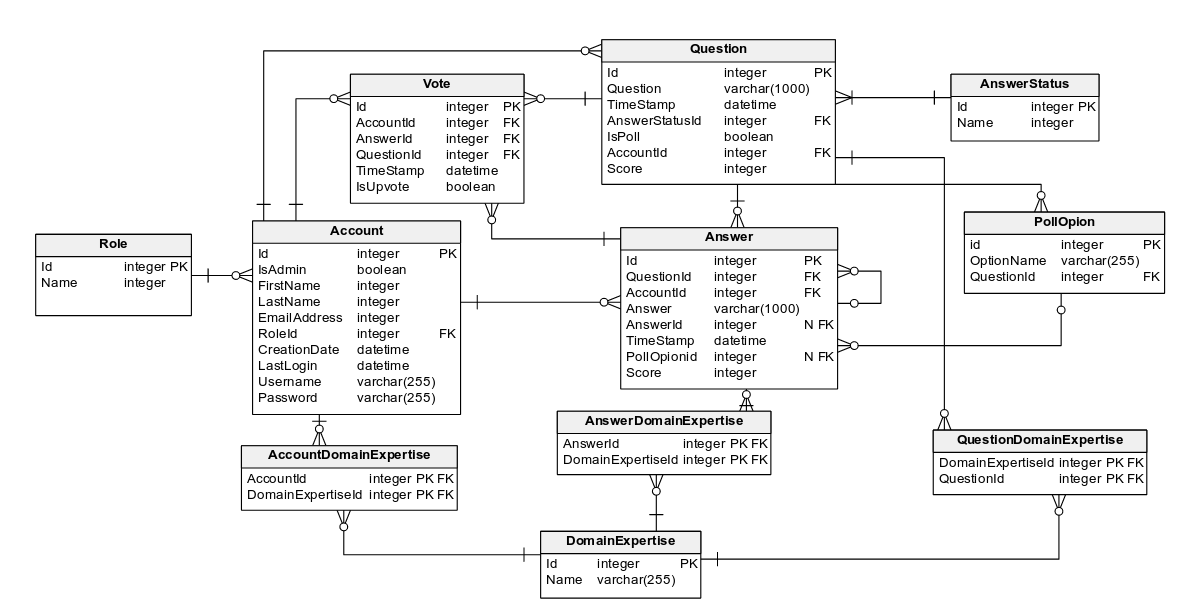
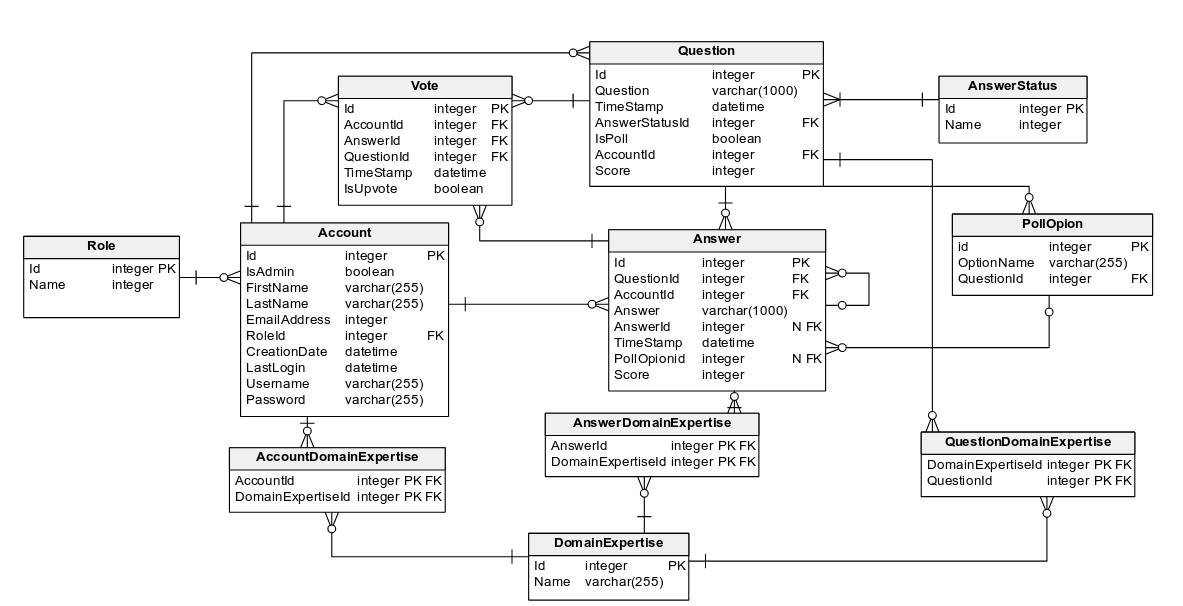
Fix first/last name account and fix database

Changed region(s): [[0.0, 0.0594, 1.0, 1.0], [0.6695, 0.2376, 0.7912, 0.2673], [0.0304, 0.505, 0.1522, 0.5347]]

diff --git a/models/account.py b/models/account.py
@@ -5,8 +5,8 @@ from .model import db
 class Account(db.Model):
     Id = db.Column(db.Integer, primary_key=True)
     IsAdmin = db.Column(db.Boolean)
-    FirstName = db.Column(db.Integer)
-    LastName = db.Column(db.Integer)
+    FirstName = db.Column(db.String(255))
+    LastName = db.Column(db.String(255))
     EmailAddress = db.Column(db.Integer)
     RoleId = db.Column(db.Integer)
     CreationDate = db.Column(db.DateTime)

diff --git a/models/answer.py b/models/answer.py
@@ -8,6 +8,7 @@ class Answer(db.Model):
     AnswerId = db.Column(db.Integer, db.ForeignKey('answer.id'))
     TimeStamp = db.Column(db.DateTime)
     PollOptionId = db.Column(db.Integer, db.ForeignKey('pollOption.id'))
+    Score = db.Column(db.Integer)
 
     def __repr__(self):
         return '<answer %r>'% self.answer

diff --git a/models/question.py b/models/question.py
@@ -6,6 +6,7 @@ class Question(db.Model):
     TimeStamp = db.Column(db.DateTime)
     AnswerStatusId = db.Column(db.Integer, db.ForeignKey('answerStatus.id'))
     IsPoll = db.Column(db.Boolean)
+    Score = db.Column(db.Integer)
 
     def __repr__(self):
         return '<question %r>'% self.Question
